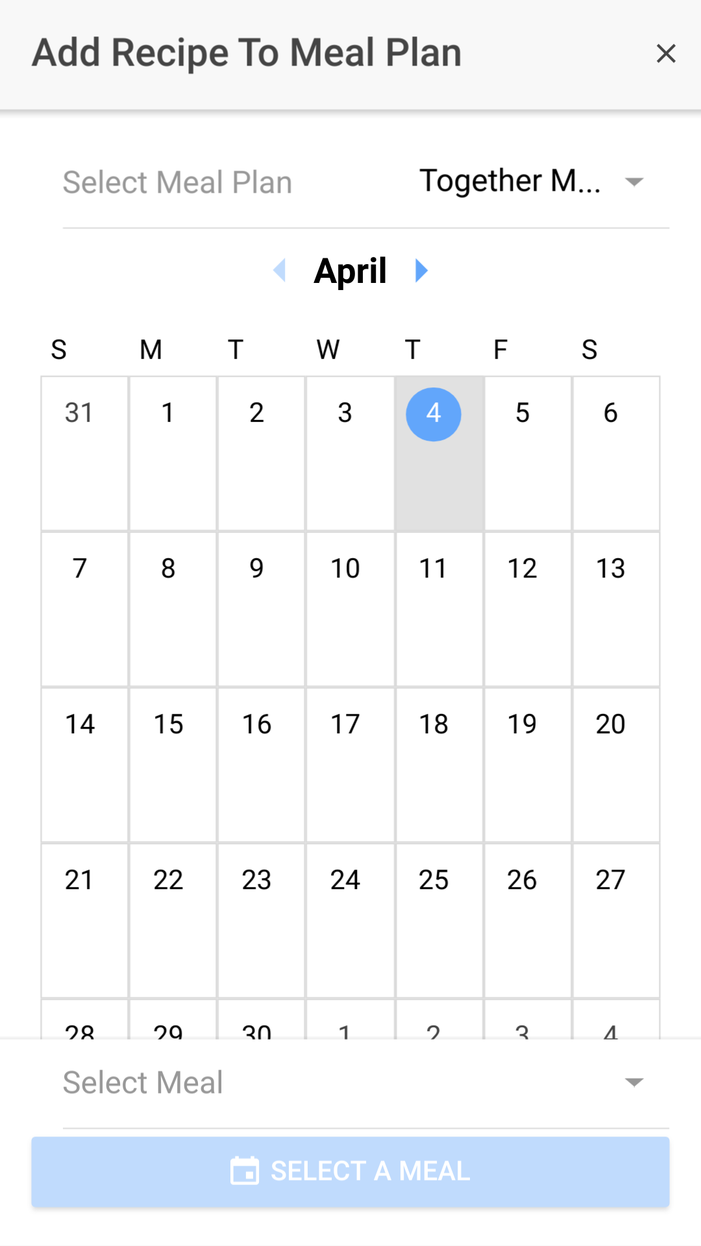
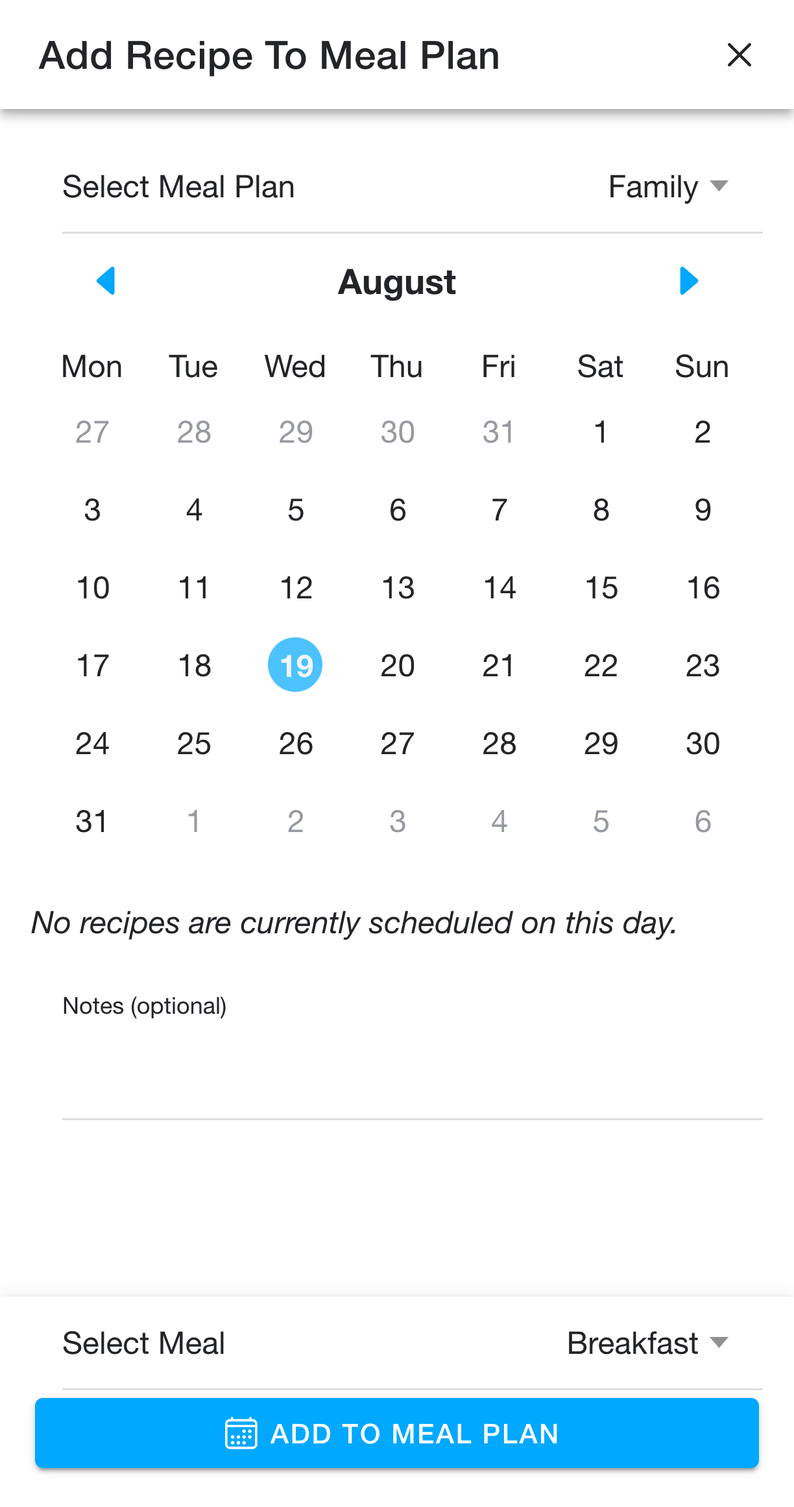
feat: update images and some documentation to modern

diff --git a/src/css/custom.css b/src/css/custom.css
@@ -39,3 +39,11 @@
   box-shadow: 1px 1px 10px rgba(0,0,0,0.4);
   display: block;
 }
+
+/* Wide (landscape / desktop) screenshots need more room than the
+   narrow mobile cap so their content stays legible, but should still
+   stay comfortably within the viewport. */
+.screenshot.screenshot-wide {
+  max-width: min(520px, 100%);
+  max-height: 70vh;
+}

diff --git a/docs/tutorials/recipes/recipe-details.md b/docs/tutorials/recipes/recipe-details.md
@@ -3,7 +3,7 @@ title: Recipe Details
 description: View recipe details, scale ingredients, print recipes, and share with friends. Learn all features of the RecipeSage recipe details page.
 ---
 
-<img className="screenshot" src="/img/recipe-details.png" width="1080" height="1920" alt="Recipe details page showing full recipe information"></img>
+<img className="screenshot" src="/img/recipe-details.png" width="1224" height="2220" alt="Recipe details page showing full recipe information"></img>
 
 This page is the detailed view for a single recipe. All of the information for the selected recipe is printed here, as well as buttons for various actions.
 
@@ -27,11 +27,22 @@ Cook mode uses its own font size so you can set it larger for reading from a dis
 
 ## Scaling
 
-<img className="screenshot" src="/img/recipe-details-scale.png" width="1080" height="1920" alt="Recipe scaling dialog"></img>
+<img className="screenshot" src="/img/recipe-details-scale.png" width="1224" height="2220" alt="Recipe ingredients with the scale link"></img>
 
-Click the scale link to choose a different recipe scale. A dialogue will pop up for the recipe scale. Enter a number or a fraction and the ingredient quantities (shown in bold) will adjust.
+Click the scale link below the ingredients (it shows the current scale and unit system, e.g. "1x scale · Original") to open the **Scale & Convert Recipe** dialogue.
 
-Keep in mind that any measurements that are not shown in bold aren't recognized and won't be scaled.
+<img className="screenshot" src="/img/recipe-details-scale-dialog.png" width="1224" height="2220" alt="Scale and convert recipe dialog"></img>
+
+There are a few ways to set the scale:
+
+- Tap one of the quick-scale buttons (1/2x, 1x, 2x, 3x, 4x).
+- Enter a number, decimal, or fraction to multiply the recipe by.
+- Scale by yield: enter how many servings or units you want, and RecipeSage works out the multiplier.
+- Pick an ingredient to scale by: choose one ingredient and enter the amount you have, and the rest of the recipe scales to match.
+
+The ingredient quantities shown in bold will adjust. Keep in mind that any measurements that are not shown in bold aren't recognized and won't be scaled.
+
+The **Units** dropdown converts between measurement systems. See [📖 Converting Between Metric and Imperial](#converting-between-metric-and-imperial) below.
 
 Values entered into the scale field are not permanent. Once you close this recipe, the scale will default back to the scale entered in the recipe editor.
 
@@ -45,13 +56,13 @@ Thousands separators are understood in both styles, so `1,000 g` and `1.000 g` b
 
 ### Converting Between Metric and Imperial
 
-The [📖 scale dialogue](#scaling) also has a **Units** toggle with three options:
+The [📖 scale dialogue](#scaling) also has a **Units** dropdown with three options:
 
 - **Original**: keep each ingredient in the units the author wrote it in
 - **Metric**: convert imperial measurements to metric (e.g. `1 cup` → `240 ml`)
 - **Imperial**: convert metric measurements to imperial (e.g. `500 g` → `~1 lb 1 3/4 oz`)
 
-To change units, open the scale dialogue from the recipe details page (click the scale link near the top of the recipe) and select a unit system from the **Units** toggle.
+To change units, open the scale dialogue from the recipe details page (click the scale link below the ingredients) and select a unit system from the **Units** dropdown.
 
 The conversion is applied to both the ingredients list and to any measurement-style `{}` placeholders within the instructions (for example, `{236ml}` or `{2 cups}`). Measurements that can't be cleanly converted will keep their original unit.
 
@@ -71,40 +82,54 @@ See [📖 Nutrition](./edit-recipe.md#nutrition) for how to fill these fields in
 
 ## Labelling
 
-<img className="screenshot" src="/img/recipe-details-actions.png" width="1080" height="1920" alt="Recipe action buttons"></img>
+<img className="screenshot" src="/img/recipe-details-labels.png" width="1224" height="2220" alt="Recipe labels shown on the recipe details page"></img>
 
 Labels are an excellent way of organizing your recipes. Think of labels as folders, but where a single recipe can be in multiple folders!
 
-To add a label to a recipe, enter the label name in the field below the labels header as shown above, and press enter to save.
+Any labels assigned to a recipe are shown in the **Labels** section near the bottom of the recipe details page. Clicking a label takes you to the my recipes page filtered by that label.
 
-Suggestions will be shown below the field as you type - they will be filtered as you type your label name. You can click a suggestion to automatically add that label. To remove a label, just click the trash can icon.
+If you've grouped your labels into [📖 label categories](../labels/manage-labels.md#labels--label-categories), they'll be displayed grouped by category, with anything uncategorized shown under "General".
 
-You can filter by labels on the my recipes page to see only recipes in a certain label.
+<img className="screenshot" src="/img/recipe-details-labels-categories.png" width="1224" height="2220" alt="Recipe labels grouped by category"></img>
+
+To add or remove labels on a recipe, open the [📖 recipe editor](./edit-recipe.md#labels). Labels are managed from there.
 
 ## Actions
 
-<img className="screenshot" src="/img/recipe-details-actions.png" width="1080" height="1920" alt="Recipe action buttons"></img>
+<img className="screenshot" src="/img/recipe-details-actions.png" width="1224" height="2322" alt="Recipe actions in the options menu"></img>
 
- At the bottom of the recipe details page there are buttons for various recipe actions. Here is a brief summary of each of the actions and their corresponding description:
+There are buttons for various recipe actions at the bottom of the recipe details page. The same actions are also available from the options menu in the top right corner (shown above), which additionally has a **Keep Screen On** toggle. Here is a brief summary of each of the actions:
 
 ### Edit
-This button will take you to the editing/authoring page for this recipe, allowing you to change details about this recipe such as instructions and ingredients.
+Takes you to the editing/authoring page for this recipe, allowing you to change details about this recipe such as instructions and ingredients.
 
 ### Delete
-This button will start the process of deleting this recipe permanently. Don't worry, you'll be prompted before the recipe is deleted. Confirming the deletion dialogue will completely and permanently remove the recipe from the system.
+Starts the process of deleting this recipe permanently. Don't worry, you'll be prompted before the recipe is deleted. Confirming the deletion dialogue will completely and permanently remove the recipe from the system.
 
 ### Add to shopping list
-This button will open the add to shopping list dialogue for this recipe.
+Opens the add to shopping list dialogue for this recipe.
 
 ### Add to meal plan
-This button will open the add to meal plan dialogue for this recipe.
+Opens the add to meal plan dialogue for this recipe.
 
 ### Share
-This button will open the share dialogue for this recipe, allowing you to send this recipe to another RecipeSage user.
+Opens the share dialogue for this recipe, allowing you to send this recipe to another RecipeSage user, share it by link, or embed it.
+
+### Make a Copy
+Creates a duplicate of the recipe in your own collection. Useful for keeping the original intact while you tweak the copy.
+
+### Mark as Made Today
+Sets the recipe's [📖 Last Made](./edit-recipe.md#last-made) date to today without opening the editor.
+
+### Pin Recipe Open
+Pins the recipe to a toolbar so you can quickly switch between multiple recipes you're referencing at once.
+
+### Publish to Discover
+Shares the recipe publicly to the [📖 Discover](../discover/index.md) feed.
 
 ## Add to Shopping List
 
-<img className="screenshot" src="/img/add-recipe-to-shopping-list.png" width="1080" height="1920" alt="Add recipe to shopping list dialog"></img>
+<img className="screenshot" src="/img/add-recipe-to-shopping-list.png" width="1224" height="2322" alt="Add recipe to shopping list dialog"></img>
 
 Shopping lists are a great way of keeping track of ingredients and items that you need from the store. Check out the shopping list tutorial to see how to use the various shopping list pages.
 
@@ -116,7 +141,7 @@ Select the list you'd like to add to by clicking the dropdown selector at the to
 
 ## Add to Meal Plan
 
-<img className="screenshot" src="/img/add-recipe-to-meal-plan.png" width="1080" height="1920" alt="Add recipe to meal plan dialog"></img>
+<img className="screenshot" src="/img/add-recipe-to-meal-plan.png" width="1224" height="2322" alt="Add recipe to meal plan dialog"></img>
 
 Meal plans are a great way of keeping track of which recipes you're going to cook on what day. Check out the meal plan tutorial to see how to use the various meal plan pages.
 
@@ -142,13 +167,13 @@ There are three options for sharing a recipe:
 
 ### To a RecipeSage User
 
-<img className="screenshot" src="/img/share-recipe-account.png" width="1080" height="1920" alt="Share recipe with RecipeSage account dialog"></img>
+<img className="screenshot" src="/img/share-recipe-account.png" width="1224" height="2322" alt="Share recipe with RecipeSage account dialog"></img>
 
 The recipe sharing modal allows you to send a recipe to another RecipeSage user's account, share via link, or share via embed.
 
 To begin the process of sharing a recipe to another user's account, press the share button at the bottom of the recipe details page (as described in the recipe actions tutorial). You'll then be presented with the share modal shown in the image above.
 
-To select a recipient, type the email of the RecipeSage user you'd like to send the recipe to in the field recipient email field. The status below the field will update as you type. It will either report that the user was found (and will show their nickname), or it will report that no user was found with that email address.
+To select a recipient, type the email or @handle of the RecipeSage user you'd like to send the recipe to into the "Search by email or handle" field. Matching users will appear as you type so you can select the one you want.
 
 You can also select the recipient from your list of existing conversations if you already have an existing message thread with the user (this list will not be shown if you do not have at least one existing message thread with another user).
 
@@ -158,7 +183,7 @@ After selecting the recipient user via either method, you'll be able to press th
 
 ### By Link
 
-<img className="screenshot" src="/img/share-recipe-link.png" width="1080" height="1920" alt="Share recipe via link dialog"></img>
+<img className="screenshot" src="/img/share-recipe-link.png" width="1224" height="2322" alt="Share recipe via link dialog"></img>
 
 The recipe sharing modal allows you to send a recipe to another RecipeSage user's account, share via link, or share via embed.
 
@@ -172,7 +197,7 @@ Note: The share button depicted to the right of the URL will only show up on som
 
 ### By Embed
 
-<img className="screenshot" src="/img/share-recipe-embed.png" width="1080" height="1920" alt="Recipe embed code dialog"></img>
+<img className="screenshot" src="/img/share-recipe-embed.png" width="1224" height="2322" alt="Recipe embed code dialog"></img>
 
 The recipe sharing modal allows you to send a recipe to another RecipeSage user's account, share via link, or share via embed.
 
@@ -191,7 +216,7 @@ After you've selected the desired options, copy the provided code and paste it a
 
 ## Printing
 
-<img className="screenshot" src="/img/select-recipe-print-layout.png" width="1080" height="1920" alt="Recipe print layout selection"></img>
+<img className="screenshot" src="/img/select-recipe-print-layout.png" width="1662" height="2331" alt="Recipe print layout selection"></img>
 
 **Note:** If you're looking for how to print all recipes, see [📖 Printing All Recipes or Exporting All Recipes to PDF](./my-recipes.md#printing-all-recipes-or-exporting-all-recipes-to-pdf) instead.
 
@@ -199,7 +224,7 @@ The print recipe modal allows you to print a hardcopy of your recipe.
 
 To begin the process of printing a recipe, press the print button at the bottom of the recipe details page (as described in the recipe actions tutorial). You'll then be presented with the print layout modal shown in the image above.
 
-To select a print layout, click the desired layout displayed in the layout list.
+To select a print layout, click the desired layout displayed in the layout list. Options include **Standard**, **Standard No Image**, **Half Sheet, Columns**, and **Half Sheet, Compact, No Columns**.
 
 After selecting a print layout, you'll be able to press the print button. The print button will trigger your system print dialogue.
 

diff --git a/docs/tutorials/recipes/edit-recipe.md b/docs/tutorials/recipes/edit-recipe.md
@@ -7,7 +7,7 @@ Creating a recipe and editing a recipe both happen using the same interface and 
 
 ## Creating a new recipe
 
-<img className="screenshot" src="/img/edit-recipe.png" width="1080" height="1920" alt="RecipeSage recipe editing interface"></img>
+<img className="screenshot" src="/img/edit-recipe.png" width="1314" height="2103" alt="RecipeSage recipe editing interface"></img>
 
 The create recipe page can be reached from the [📖 my recipes](./my-recipes.md) page by clicking the blue + button in the bottom right corner, as well as via the sidemenu.
 
@@ -17,13 +17,23 @@ To add an image to your recipe, click the image holder at the top. Your browser 
 
 For special formatting in the ingredients, instructions, or notes fields please see the [📖 formatting](./edit-recipe.md#formatting) section below.
 
-You can add or remove labels from the recipe on this page. The documentation for creating labels is [📖 here](../labels/create.md).
+You can add or remove labels from the recipe on this page. See [📖 Labels](#labels) below. The documentation for creating labels is [📖 here](../labels/create.md).
+
+## Autofill
+
+Rather than typing a recipe out by hand, you can have RecipeSage fill in the fields for you from an existing source. On the [📖 create new recipe page](#creating-a-new-recipe) (not available while editing an existing recipe), click the **Autofill Recipe From...** button to choose a source.
+
+<img className="screenshot" src="/img/edit-recipe-autofill.png" width="1314" height="2103" alt="Autofill recipe source menu"></img>
+
+The available options are covered below. Each autofill dialogue also has an **Attempt to grab nutrition information** checkbox. See [📖 Grabbing Nutrition During Clipping](#grabbing-nutrition-during-clipping).
 
 ### Autofill from URL
 
 Importing by URL makes it easy to import almost any site into your recipe edit flow automatically.
 
-To import a recipe from URL, open the [📖 create new recipe page](#creating-a-new-recipe) (not available while editing an existing recipe), and click the "Autofill Recipe From" button. Then, click the "Autofill from URL" option and paste in a URL to a recipe.
+To import a recipe from URL, open the [📖 create new recipe page](#creating-a-new-recipe) (not available while editing an existing recipe), and click the "Autofill Recipe From..." button. Then, click the "Autofill from URL" option, paste in a URL to a recipe, and click "Okay".
+
+<img className="screenshot" src="/img/edit-recipe-autofill-url.png" width="1314" height="2103" alt="Autofill recipe from URL dialog"></img>
 
 Known limitations:
 
@@ -34,7 +44,9 @@ Known limitations:
 
 Importing from text makes it easy to import from a copied block of text. The text doesn't have to have any particular format, as long as it contains a recipe at some point. The RecipeSage assistant will take care of formatting it into the appropriate fields.
 
-To autofill a recipe from a block of text, open the [📖 create new recipe page](#creating-a-new-recipe) (not available while editing an existing recipe), and click the "Autofill Recipe From" button. Then, click the "Autofill from Text" option and paste in a URL to a recipe.
+To autofill a recipe from a block of text, open the [📖 create new recipe page](#creating-a-new-recipe) (not available while editing an existing recipe), and click the "Autofill Recipe From..." button. Then, click the "Autofill from text" option, paste in a block of text containing a recipe, and click "Okay".
+
+<img className="screenshot" src="/img/edit-recipe-autofill-text.png" width="1314" height="2103" alt="Autofill recipe from text dialog"></img>
 
 Known limitations:
 
@@ -44,7 +56,7 @@ Known limitations:
 
 You can take a photo of a recipe either in print form, or handwritten. RecipeSage will recognize any text it can see in the photo, and try to fill in the associated fields on your recipe.
 
-To use this, open the [📖 new recipe page](#creating-a-new-recipe) (not available while editing an existing recipe) and click the "Autofill Recipe From" button, then the "Scan from Photo" option. On mobile devices, you'll be prompted to choose whether to take a photo, or whether to select an existing one. On desktop, you'll just see a file dialogue where you can select an image file.
+To use this, open the [📖 new recipe page](#creating-a-new-recipe) (not available while editing an existing recipe) and click the "Autofill Recipe From..." button, then the "Scan from photo" option. On mobile devices, you'll be prompted to choose whether to take a photo, or whether to select an existing one. On desktop, you'll just see a file dialogue where you can select an image file.
 
 If taking a photo with your camera, it's recommended to have good lighting, and have the text in the photo be as square as possible. Screenshots also work great.
 
@@ -62,7 +74,9 @@ Importing from a document makes it easy to import recipes from almost any arbitr
 
 Supported document types are PDF, DOCX, RTF, ODT, Markdown, HTML, OrgMode, and plain text.
 
-To autofill a recipe from a document, open the [📖 create new recipe page](#creating-a-new-recipe) (not available while editing an existing recipe), and click the "Autofill Recipe From" button. Then, click the "Scan from document" option. You'll be prompted to select a file.
+To autofill a recipe from a document, open the [📖 create new recipe page](#creating-a-new-recipe) (not available while editing an existing recipe), and click the "Autofill Recipe From..." button. Then, click the "Scan from document" option and click "Choose File" to select a file.
+
+<img className="screenshot" src="/img/edit-recipe-autofill-document.png" width="1314" height="2103" alt="Autofill recipe from document dialog"></img>
 
 Known limitations:
 
@@ -71,8 +85,6 @@ Known limitations:
 
 ## Editing a recipe
 
-<img className="screenshot" src="/img/edit-recipe.png" width="1080" height="1920" alt="RecipeSage recipe editing interface"></img>
-
 The edit recipe page can be reached from the [📖 recipe details](./recipe-details.md) page by clicking the edit button at the bottom of the page, or by clicking the edit button in the top right options menu.
 
 The options and interface are the same here as described in the [📖 creating a new recipe](#creating-a-new-recipe) section.
@@ -80,6 +92,8 @@ The options and interface are the same here as described in the [📖 creating a
 ## Formatting
 
 The ingredients, instructions, and notes fields support special syntax for organizing and formatting your recipes.
+
+<img className="screenshot screenshot-wide" src="/img/edit-recipe-formatting.png" width="2664" height="2322" alt="Ingredients and instructions fields with formatting toolbars"></img>
 
 Each of these fields has a small toolbar directly beneath it with buttons that insert the formatting syntax for you, so you don't have to remember it. The available buttons depend on the field (for example, tables are only offered under the notes field). If you have text selected when you press a button, the formatting is wrapped around your selection; otherwise a placeholder is inserted for you to type over. The information icon at the end of each toolbar links back to this section.
 
@@ -154,7 +168,7 @@ __underlined text__
 
 ### Section headers
 
-<img className="screenshot" src="/img/recipe-details-ingredients.png" width="1080" height="1920" alt="Recipe ingredients with section headers"></img>
+<img className="screenshot screenshot-wide" src="/img/recipe-details-ingredients.png" width="2664" height="2322" alt="Recipe ingredients and instructions with section headers"></img>
 
 To add a header, wrap the line in brackets:
 
@@ -187,6 +201,18 @@ You can also choose a size by adding `:small`, `:medium`, `:large`, or `:xlarge`
 ```
 
 This syntax is supported in the **Instructions** and **Notes** fields only.
+
+## Labels
+
+Labels are added to and removed from a recipe on the edit page.
+
+<img className="screenshot" src="/img/recipe-edit-labels.png" width="1224" height="2220" alt="Editing labels on the recipe edit page"></img>
+
+Under the **Labels** heading, type into a "Search for a label" field to find an existing label or create a new one, then select it to attach it to the recipe. To remove a label, tap the red trash can icon next to it.
+
+If you've set up [📖 label categories](../labels/manage-labels.md#labels--label-categories), each category gets its own labelled group with its own search field, so you can keep, for example, "Meal" labels separate from "General" ones. Uncategorized labels appear under the "General" group.
+
+Once saved, your labels are shown on the [📖 recipe details page](./recipe-details.md#labelling) and can be used to [📖 filter your recipes](../labels/filtering.md).
 
 ## Rating
 

diff --git a/docs/tutorials/recipes/my-recipes.md b/docs/tutorials/recipes/my-recipes.md
@@ -7,7 +7,7 @@ Welcome to the main page of RecipeSage! This is where most of the action happens
 
 ## Main Screen
 
-<img className="screenshot" src="/img/home.png" width="1080" height="1920" alt="RecipeSage my recipes home page"></img>
+<img className="screenshot" src="/img/home.png" width="1224" height="2220" alt="RecipeSage my recipes home page"></img>
 
 To create a recipe, you'll need to click that big blue button in the bottom right hand corner. That will take you to the recipe authoring page.
 
@@ -23,11 +23,13 @@ The search bar returns results that are as "close" to your match as possible, bu
 
 ## Options Menu
 
-<img className="screenshot" src="/img/home-popover.png" width="1080" height="1920" alt="Recipe list options menu"></img>
+<img className="screenshot" src="/img/home-options.png" width="1224" height="2220" alt="Recipe list options menu"></img>
 
-You can use the settings icon in the upper right-hand corner to adjust sort order, filter by label, and enable/disable different visual items.
+Use the options icon in the upper right-hand corner to change the layout, adjust the sort order, and enable/disable different visual items. These are all visual preferences. To actually narrow down which recipes are shown, use the [📖 Search Filters](#search-filters) menu instead.
 
 Here is a brief description of what each of these settings do:
+
+**Layout:** Switches the recipe list between the **Tiles**, **List**, and **Compact** layouts.
 
 **Show Labels:** When enabled, you'll see a list of labels below the title on each recipe. This setting is visual only.
 
@@ -37,19 +39,33 @@ Here is a brief description of what each of these settings do:
 
 **Show Source:** When enabled, you'll see the recipe source below the recipe title on each recipe. This setting is visual only.
 
+**Show Description:** When enabled, you'll see the recipe description below the title on each recipe. This setting is visual only.
+
 **Show Rating:** When enabled, you'll see the recipe's star rating on each recipe that has one. This setting is visual only.
 
-**Sort By:** Selecting a different sort order will change the order in which recipes appear in the list. This setting is visual only.
+**Sort By:** Selecting a different sort order will change the order in which recipes appear in the list. You can sort by title, when a recipe was created or updated, or when it was last made.
 
-**Filter by Label:** Allows you to filter your recipes by assigned labels.
+## Search Filters
 
-**Match All Labels:** Changes how label filter is applied. Example: When off, filtering by labels "dinner" and "soup" will show recipes that have either of those labels. When on, filtering by labels "dinner" and "soup" will only show recipes that have both of those labels.
+<img className="screenshot" src="/img/home-filter.png" width="1224" height="2220" alt="Recipe list search filters menu"></img>
+
+The filter and options menus are separate. While the [📖 Options menu](#options-menu) controls how the list looks, the **Search Filters** menu controls which recipes are shown. Tap **Filter** next to the search bar to open it.
+
+**Filter by Rating:** Show only recipes with the star ratings you select.
+
+**Filter by Label:** Show only recipes that have the labels you select. See [📖 Label Usage & Filtering](../labels/filtering.md) for more detail.
+
+**Match All Labels:** Changes how the label filter is applied. When off, filtering by labels "dinner" and "soup" will show recipes that have either of those labels. When on, it will only show recipes that have both of those labels.
+
+**Filter by Nutrition:** Show only recipes whose nutrition values fall within the ranges you set.
+
+**Show Friends Recipes:** Choose whether recipes shared with you by friends are included in your search and browse results.
 
 ## Bulk Actions
 
-<img className="screenshot" src="/img/home-bulk-actions.png" width="1080" height="1920" alt="Bulk actions menu for multiple recipes"></img>
+<img className="screenshot" src="/img/home-bulk-actions.png" width="1224" height="2220" alt="Bulk actions menu for multiple recipes"></img>
 
-You can select multiple recipes by using the "Select Multiple Recipes" option in the options menu, then tapping the recipes you'd like to select. Then, use the buttons in the header to create a label for, or delete all of those recipes at the same time.
+You can select multiple recipes by using the "Select Multiple Recipes" option in the options menu, then tapping the recipes you'd like to select. Then, use the buttons in the header to add a label to, export, or delete all of those recipes at the same time.
 
 You can tap a recipe again to deselect it, or press the X in the top left corner to cancel your selection altogether.
 

diff --git a/docs/tutorials/labels/manage-labels.md b/docs/tutorials/labels/manage-labels.md
@@ -13,7 +13,9 @@ This section covers the [📱 label manager](https://recipesage.com/app/labels).
 
 ## Label List
 
-The [📱 label manager](https://recipesage.com/app/labels) displays a list of all of the labels & label categories you currently have in your collection.
+<img className="screenshot screenshot-wide" src="/img/manage-labels.png" width="2664" height="2322" alt="Manage Labels & Categories page listing all labels"></img>
+
+The [📱 label manager](https://recipesage.com/app/labels) displays a list of all of the labels & label categories you currently have in your collection. Each entry shows how many recipes use the label, which category it belongs to (if any), and when it was created. Use the search bar at the top to quickly find a label, or the + button in the bottom right corner to create a new label or category.
 
 On this page, you can edit labels & label categories as well as do bulk operations based on those labels. This isn't the place to [📖 filter by label](./filtering.md), or to [📖 create or assign labels to recipes](./create.md).
 

diff --git a/docs/tutorials/labels/filtering.md b/docs/tutorials/labels/filtering.md
@@ -15,9 +15,9 @@ You can use labels to filter recipes when browsing or searching.
 
 To view all recipes within a single label, or within a combination of multiple labels, open the [📱 My Recipes](https://recipesage.com/app/list/main) page.
 
-<img className="screenshot" src="/img/home-popover.png" width="1080" height="1920" alt="Recipe list filter options"></img>
+<img className="screenshot" src="/img/home-filter.png" width="1224" height="2220" alt="Recipe list filter options"></img>
 
-Open the options menu in the top right corner of the My Recipes page and select "Filter by Label".
+Tap **Filter** next to the search bar on the My Recipes page to open the search filters, then select "Filter by Label". (Note: filtering lives in its own menu, separate from the [📖 options menu](../recipes/my-recipes.md#options-menu) that controls the list's appearance.)
 
 You can then mark any labels you wish to filter by; the recipe list will only show recipes with the labels you selected. You can further narrow the list by searching.
 

diff --git a/docs/tutorials/browser-extension.md b/docs/tutorials/browser-extension.md
@@ -5,7 +5,7 @@ description: Install the RecipeSage browser extension for Chrome and Firefox to 
 
 The RecipeSage clip tool browser extension provides a very quick way to import recipes from the web.
 
-Although it's possible to import recipes using the [📖 import by url](./recipes/edit-recipe.md#import-by-url) feature, there are a number of known limitations, but also requires more interaction. The clip tool browser extension is convenient and makes it really quick and easy to clip a recipe from the web directly into your RecipeSage account.
+Although it's possible to import recipes using the [📖 autofill from URL](./recipes/edit-recipe.md#autofill-from-url) feature, there are a number of known limitations, but also requires more interaction. The clip tool browser extension is convenient and makes it really quick and easy to clip a recipe from the web directly into your RecipeSage account.
 
 ## Installation
 
